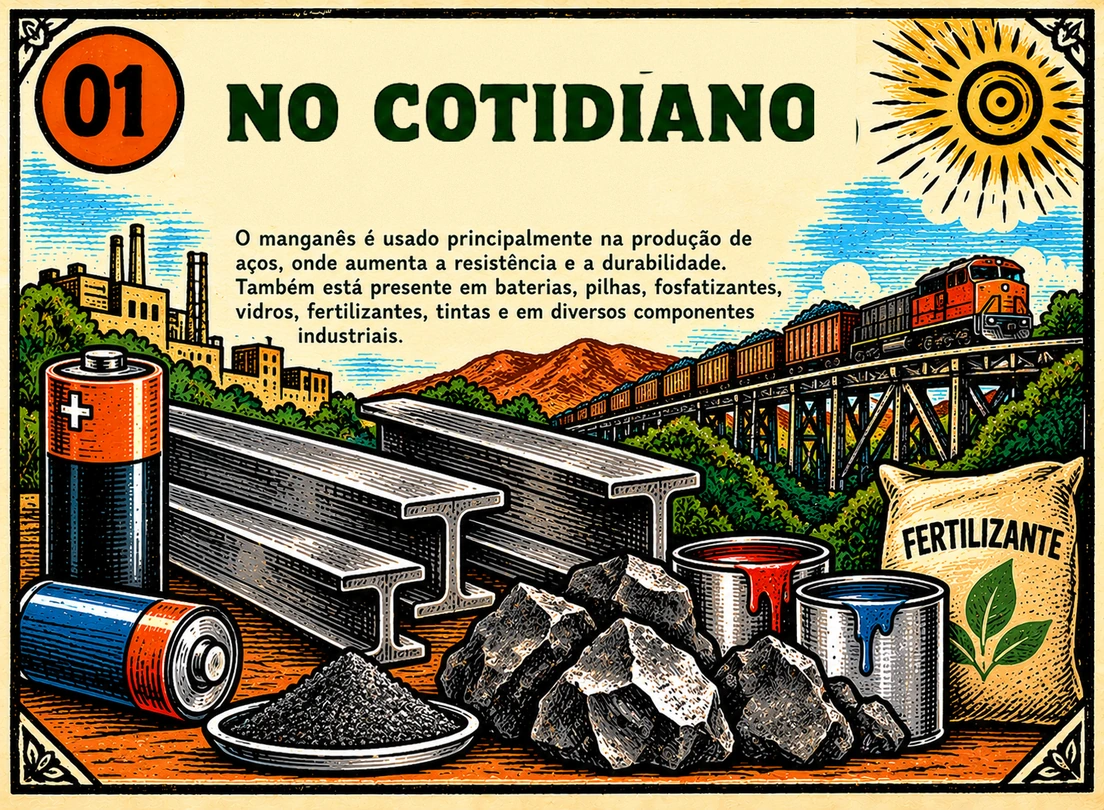
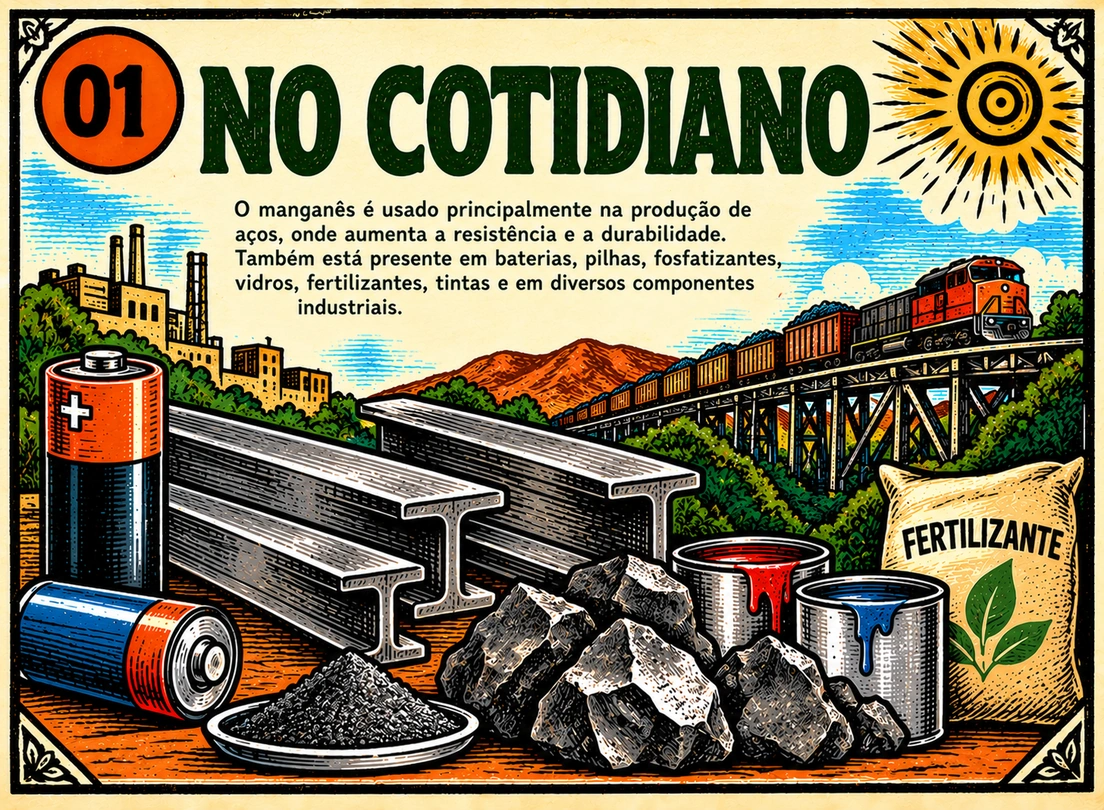
Corrigir dimensões dos quadros 01 de Cromo e Manganês
Substitui somente as imagens 024-01 e 025-01 pelas artes revisadas e aprovadas, redimensionadas de 1464x1074 para 1104x810 sem recortes, margens nem troca de ilustrações. Invalida cache visual e PWA v60 e atualiza testes de integridade SHA-256. Mantém os quadros de Cobalto 027 já publicados.

Changed region(s): [[0.0, 0.0, 0.9855, 0.9877], [0.2464, 0.0, 0.308, 0.0309], [0.0, 0.0309, 0.0308, 0.0617]]

diff --git a/assets/element-page.js b/assets/element-page.js
@@ -511,7 +511,7 @@
         figure.className='ep-print-approved-art';
         figure.alt='';
         figure.loading='eager';figure.decoding='sync';
-        figure.src='../../assets/folhetos/cenas/025-0'+(i+1)+'.webp?fit=mn025-no-nome-v2';
+        figure.src='../../assets/folhetos/cenas/025-0'+(i+1)+'.webp?fit=mn025-sem-nome-dimensoes-v3';
         figure.addEventListener('load',()=>{
           if(figure.naturalWidth>0){
             slot.replaceChildren(figure);
@@ -535,7 +535,7 @@
         figure.className='ep-print-approved-art';
         figure.alt='';
         figure.loading='eager';figure.decoding='sync';
-        figure.src='../../assets/folhetos/cenas/024-0'+(i+1)+'.webp?fit=cr024-no-nome-v2';
+        figure.src='../../assets/folhetos/cenas/024-0'+(i+1)+'.webp?fit=cr024-sem-nome-dimensoes-v3';
         figure.addEventListener('load',()=>{
           if(figure.naturalWidth>0){
             slot.replaceChildren(figure);

diff --git a/sw.js b/sw.js
@@ -1,4 +1,4 @@
-const CACHE='cordel-varal-v59-cobalto-027-e-revisoes-024-025';
+const CACHE='cordel-varal-v60-quadros-024-025-dimensoes';
 const ROOT=new URL('./',self.location.href).href;
 // Critical UI files must be revalidated online, not served indefinitely from
 // an older app-shell cache. Offline fallback keeps the PWA usable.
